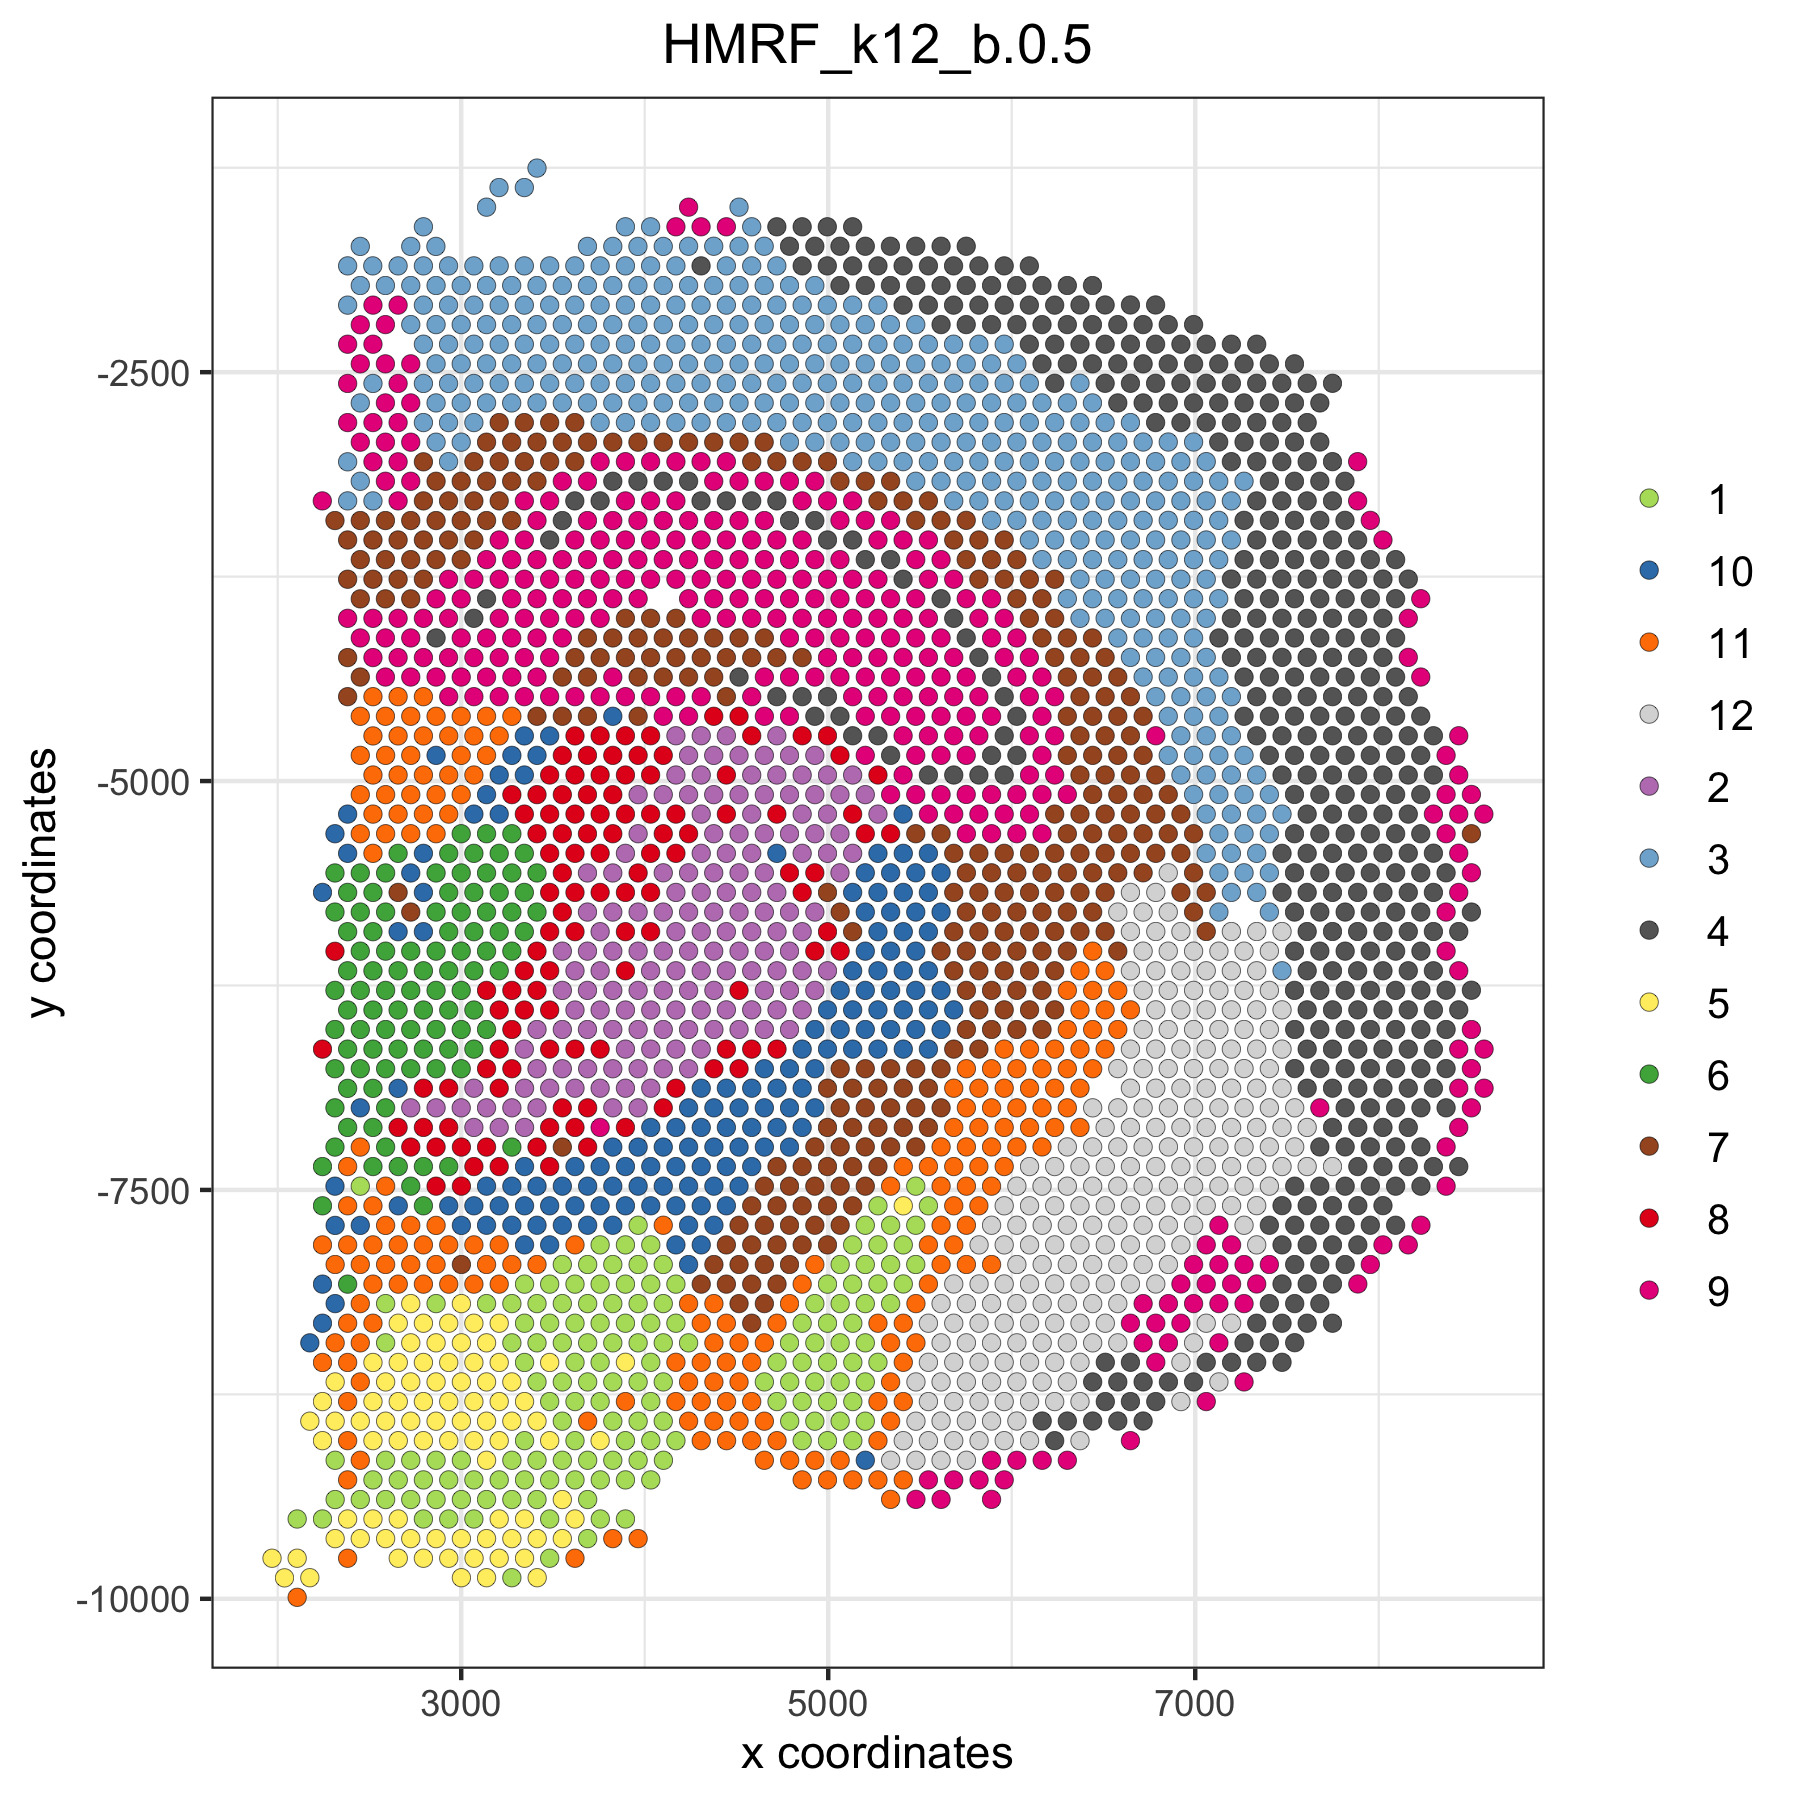
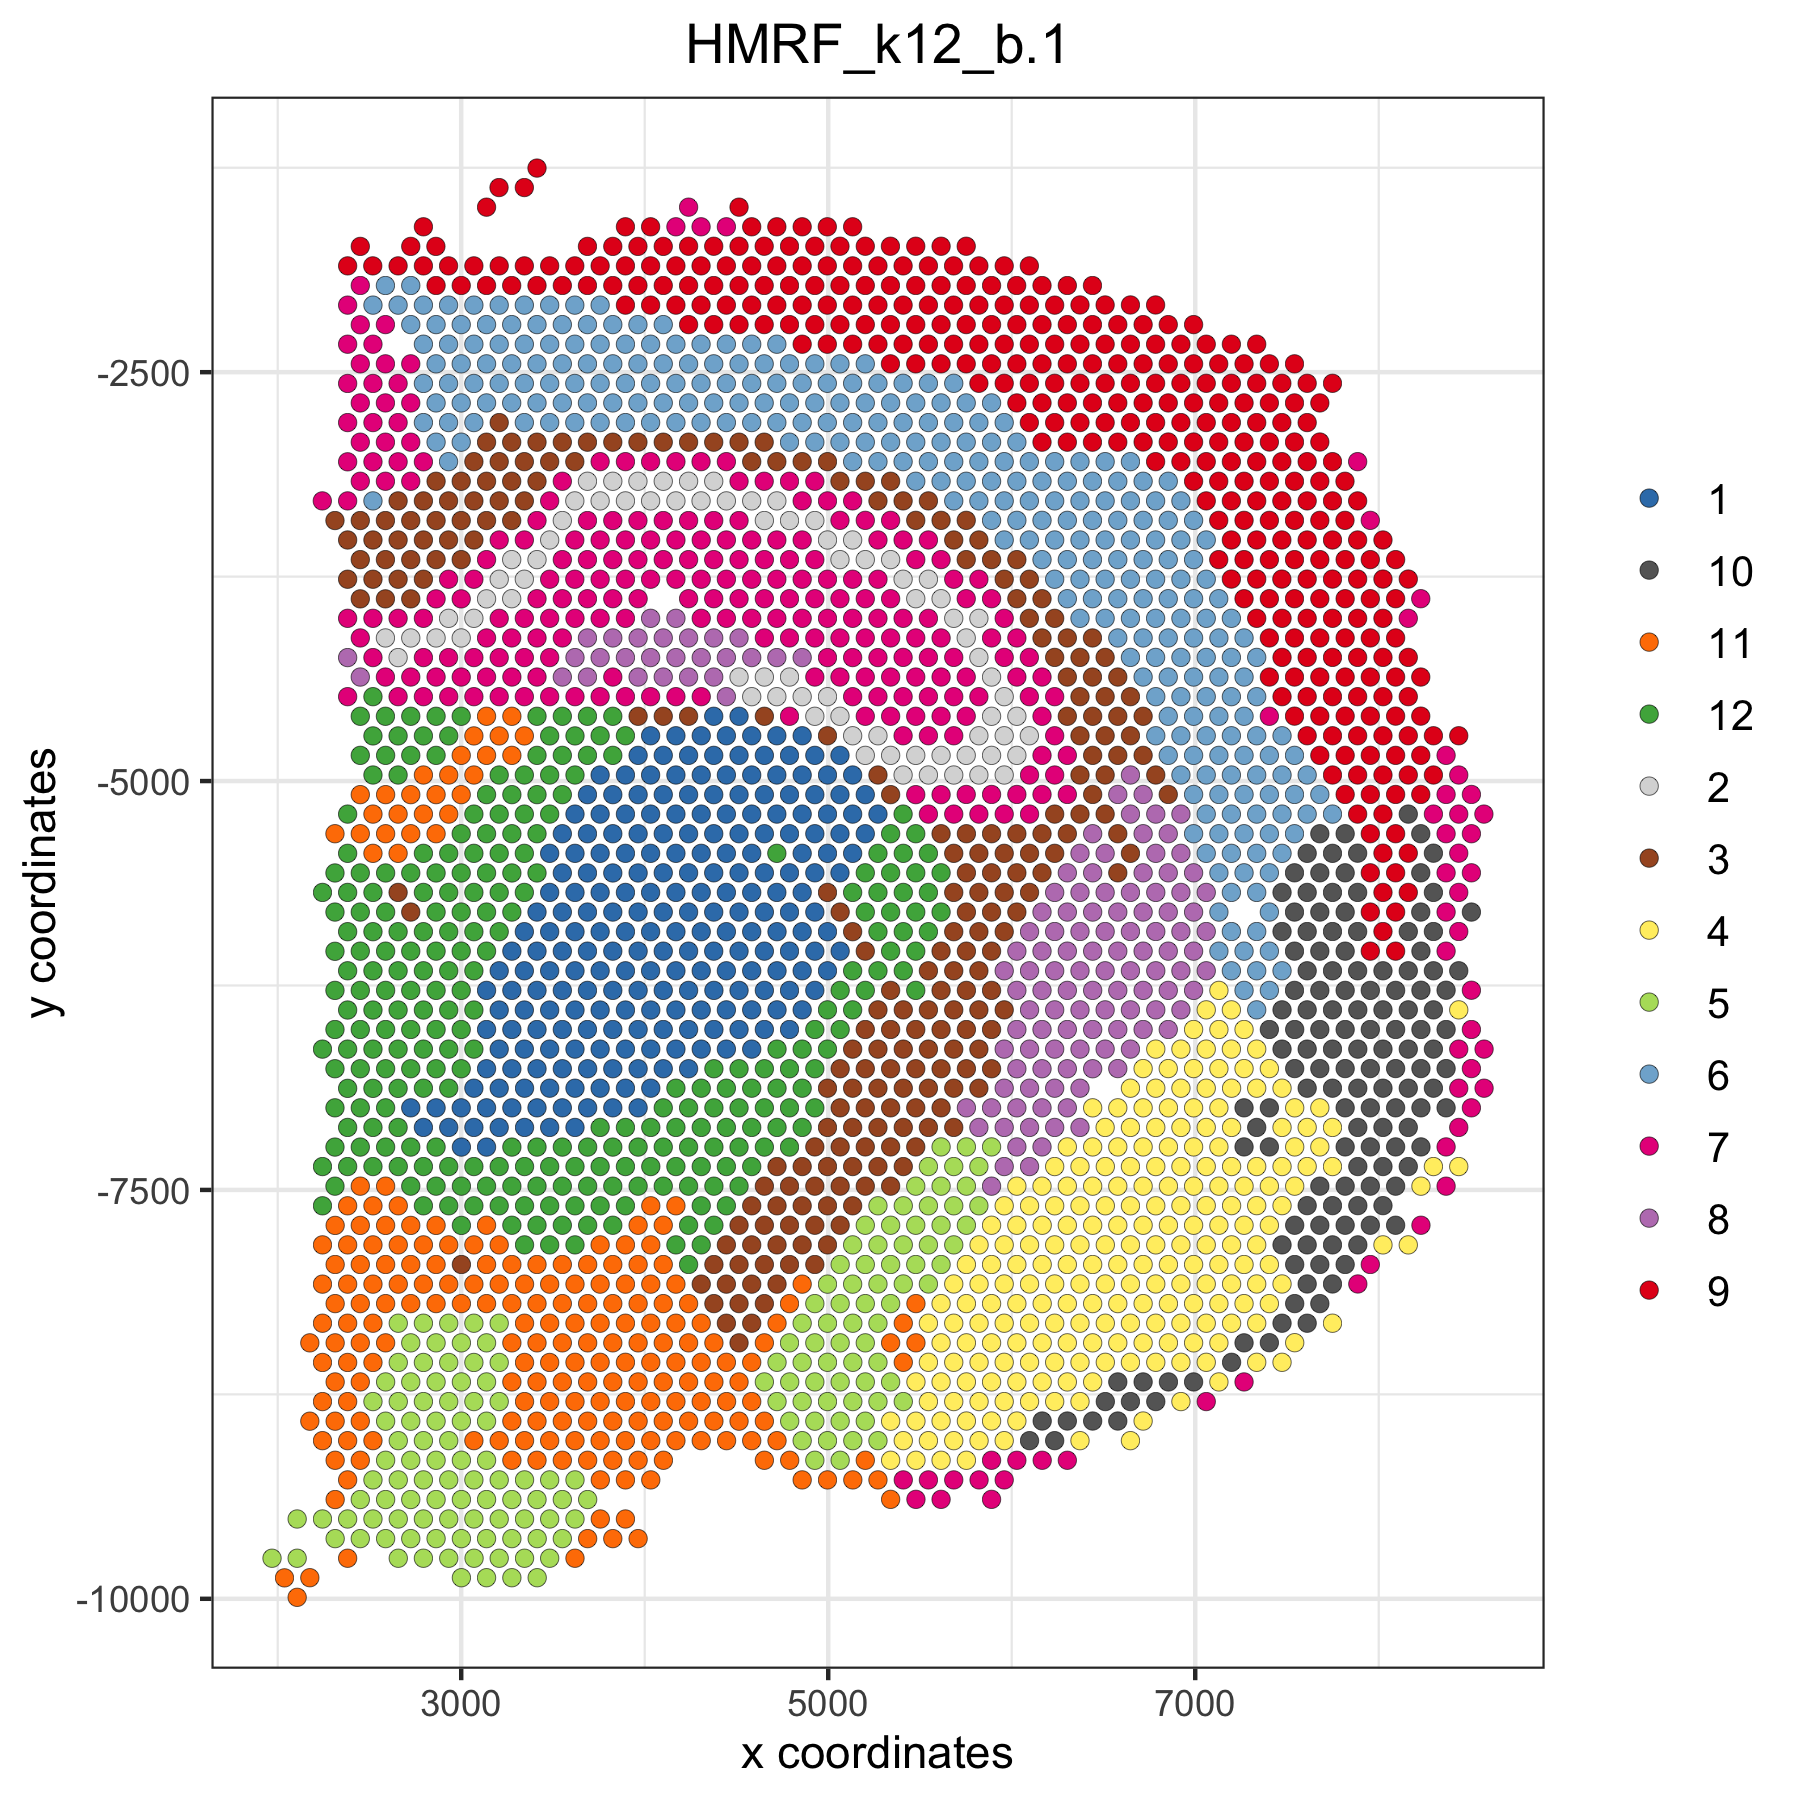
update visium examples

diff --git a/inst/examples/mouse_visium_brain/mouse_visium_brain_Giotto_v0.1.3.md b/inst/examples/mouse_visium_brain/mouse_visium_brain_Giotto_v0.1.3.md
@@ -187,12 +187,19 @@ spatDimPlot(gobject = visium_brain, cell_color = 'leiden_clus',
 # number of genes detected per spot
 spatDimPlot(gobject = visium_brain, cell_color = 'nr_genes', color_as_factor = F,
             dim_point_size = 1.5, spat_point_size = 1.5)
+
+# zoom-in on Dentate Gyrus by subsetting giotto object based on spatial coordinates/locations
+DG_subset = subsetGiottoLocs(visium_brain, x_max = 6500, x_min = 3000, y_max = -2500, y_min = -5500, return_gobject = T)
+spatDimPlot(gobject = DG_subset, cell_color = 'leiden_clus', point_size = 5)
 ```
 
 Co-visualzation: ![](./figures/4_covis_leiden.png)
 
 Co-visualzation overlaid with number of genes detected:  
 ![](./figures/4_nr_genes.png)
+
+Zoom-in on Dentate Gyrus:  
+![](./figures/4_zoom_dentate_gyrus.png)
 
 -----
 
@@ -479,7 +486,7 @@ spatGenePlot(visium_brain, expression_values = 'scaled',
 ## distance
 spatial_genes = calculate_spatial_genes_python(gobject = visium_brain,
                                                expression_values = 'scaled',
-                                               rbp_p=0.99, examine_top=0.1)
+                                               rbp_p=0.95, examine_top=0.3)
 spatGenePlot(visium_brain, expression_values = 'scaled',
              genes = spatial_genes$genes[1:6], cow_n_col = 2, point_size = 1,
              genes_high_color = 'red', genes_mid_color = 'white', genes_low_color = 'darkblue', midpoint = 0)
@@ -543,7 +550,7 @@ visium_brain = addHMRF(gobject = visium_brain,
 # b = 0
 spatPlot(gobject = visium_brain, cell_color = 'HMRF_k12_b.0', point_size = 2)
 
-# b = 0.5
+# b = 1
 spatPlot(gobject = visium_brain, cell_color = 'HMRF_k12_b.0.5', point_size = 2)
 ```
 
@@ -551,7 +558,7 @@ HMRF:
 b = 0  
 ![](./figures/10_HMRF_k12_b.0.png)
 
-b = 0.5 results in smoother spatial domains:  
+b = 1 results in smoother spatial domains:  
 ![](./figures/10_HMRF_k12_b.0.5.png)
 
 -----
